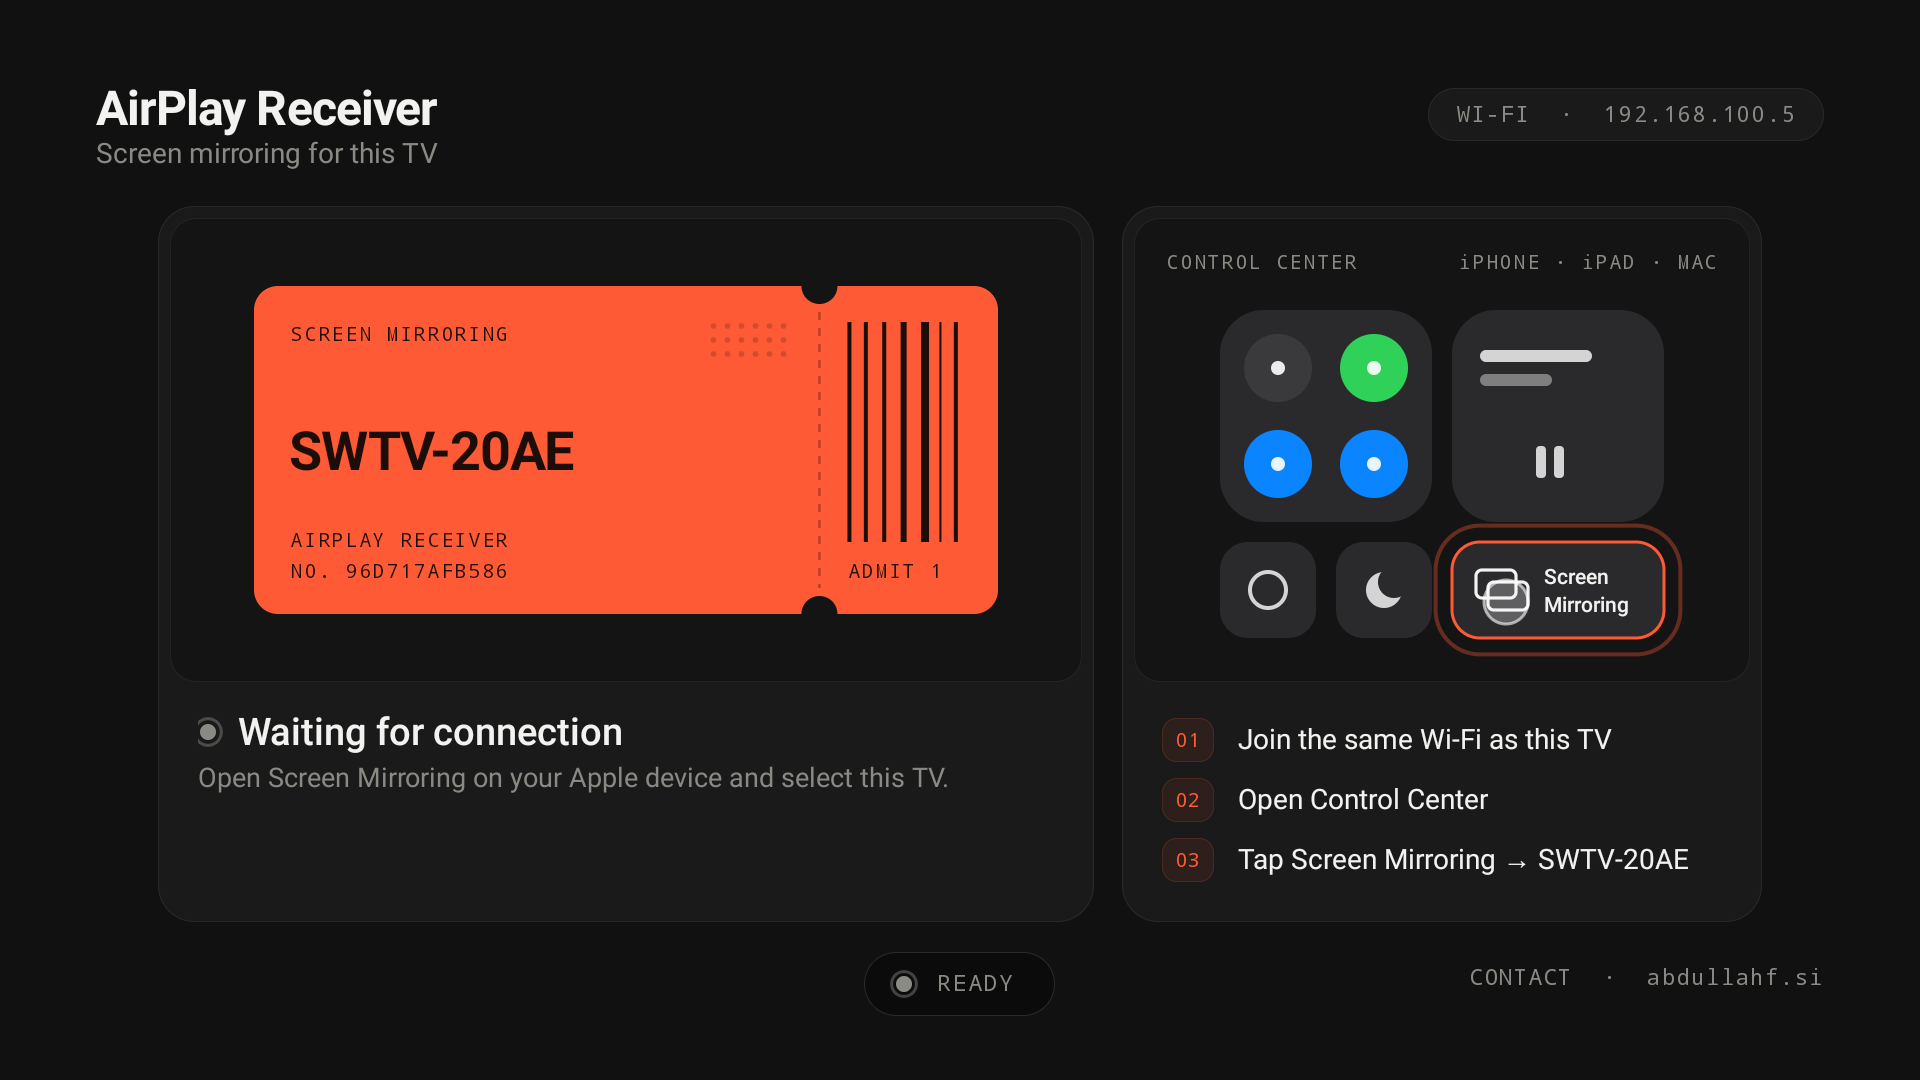
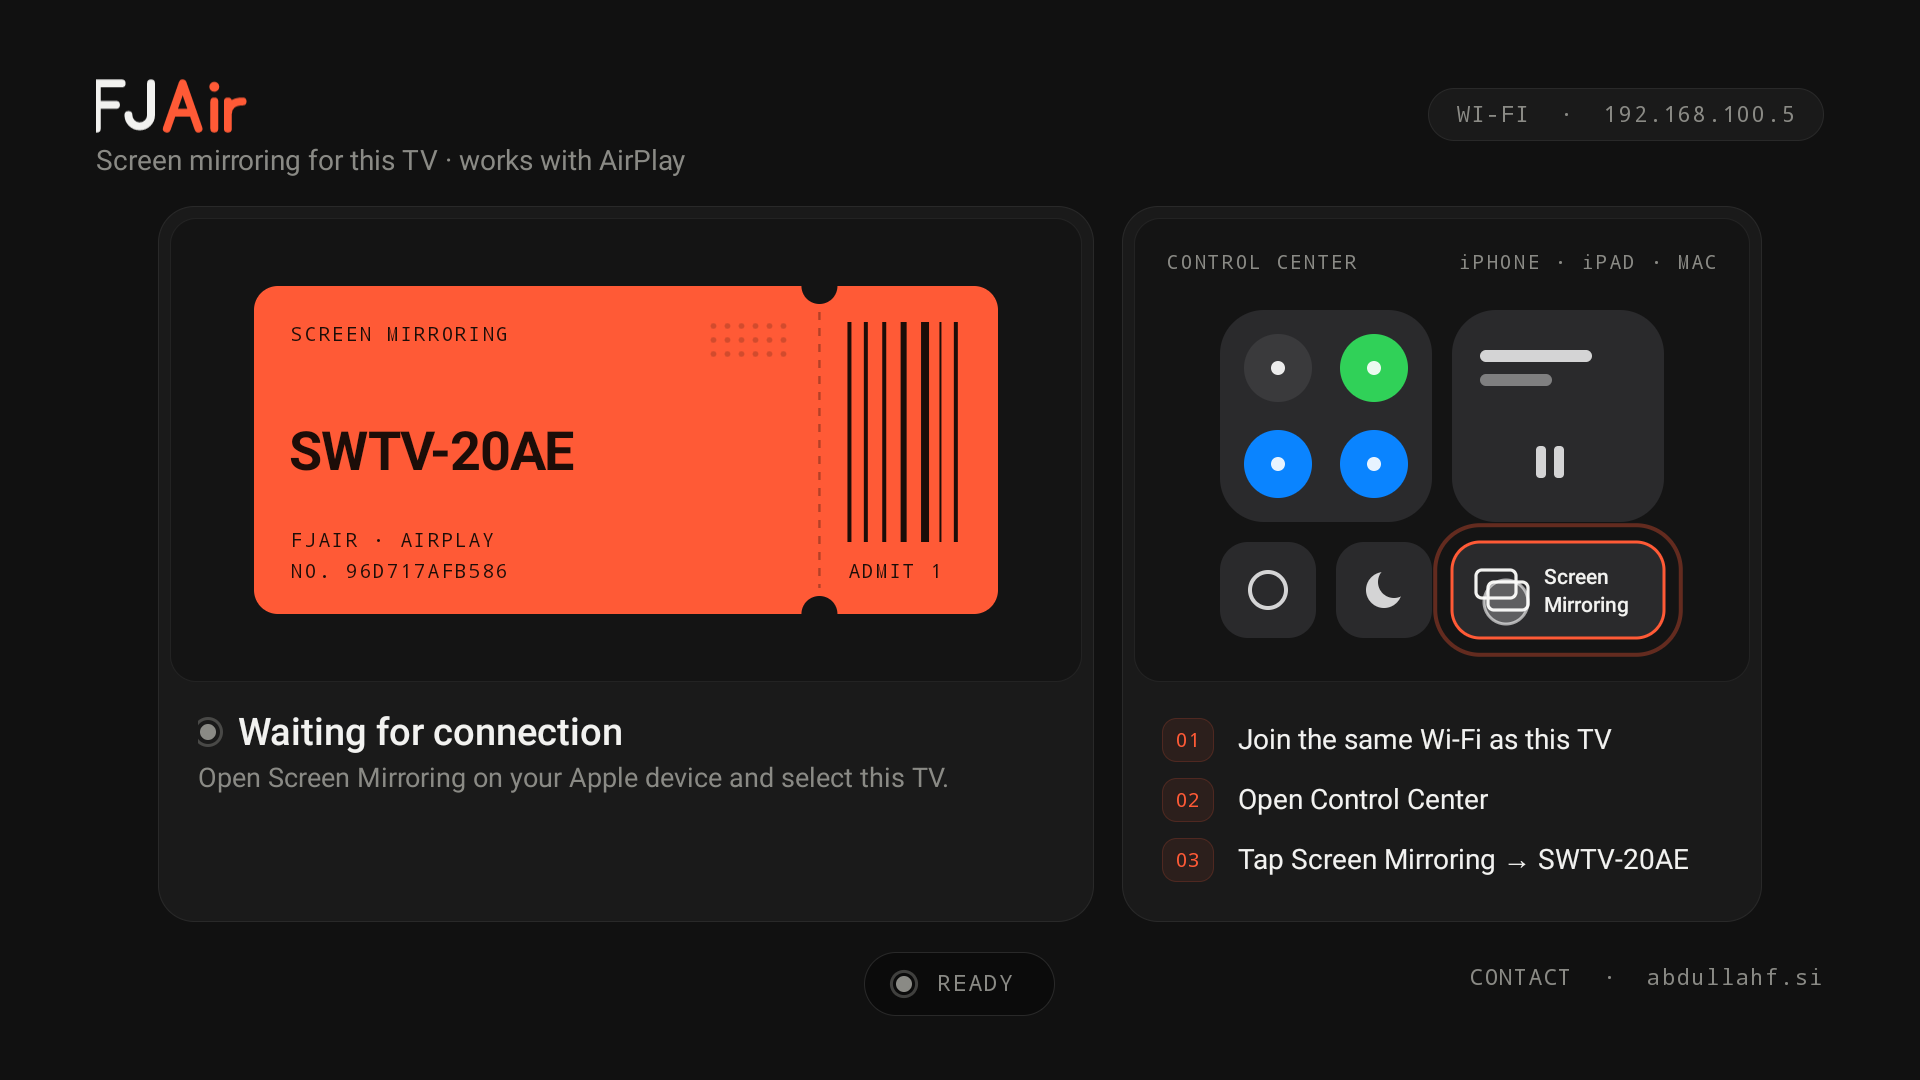
Brand the app as FJAir
Logo mark (the orange pairing ticket with an FJ monogram), a monoline
wordmark drawn as paths, and a colour palette. Adds an adaptive launcher
icon, a legacy icon, the 320x180 Android TV banner and the in-app
wordmark, all generated from docs/brand/*.svg by docs/brand/gen_res.py.
App label is now FJAir; README gets the banner and a Brand section.
Version 0.3.

Changed region(s): [[0.0312, 0.0611, 0.3438, 0.1528], [0.1562, 0.4889, 0.25, 0.5194]]

diff --git a/app/src/main/java/tv/airplay/HomeView.kt b/app/src/main/java/tv/airplay/HomeView.kt
@@ -15,6 +15,7 @@ import android.view.Gravity
 import android.view.View
 import android.view.animation.LinearInterpolator
 import android.widget.FrameLayout
+import android.widget.ImageView
 import android.widget.LinearLayout
 import android.widget.TextView
 import kotlin.math.PI
@@ -58,9 +59,13 @@ class HomeView(ctx: Context, tvName: String, deviceId: String) : FrameLayout(ctx
         // wordmark, top-left: name over a muted subtitle
         addView(LinearLayout(ctx).apply {
             orientation = LinearLayout.VERTICAL
-            addView(text(24f, INK, bold).apply { text = "AirPlay Receiver"; letterSpacing = -0.02f })
-            addView(text(14f, MUTED, regular).apply { text = "Screen mirroring for this TV" })
-        }, lp(-2, -2, Gravity.TOP or Gravity.START).margins(48, 40, 0, 0))
+            addView(ImageView(ctx).apply {
+                setImageResource(R.drawable.fjair_wordmark); contentDescription = "FJAir"
+                scaleType = ImageView.ScaleType.FIT_START; adjustViewBounds = true
+            }, LinearLayout.LayoutParams(-2, dp(34)).apply { marginStart = -dp(3) })
+            addView(text(14f, MUTED, regular).apply { text = "Screen mirroring for this TV · works with AirPlay" },
+                LinearLayout.LayoutParams(-2, -2).apply { topMargin = dp(2) })
+        }, lp(-2, -2, Gravity.TOP or Gravity.START).margins(48, 36, 0, 0))
 
         // network chip, top-right
         addView(ipText.apply {
@@ -316,7 +321,7 @@ private class TicketView(ctx: Context, private val name: String, private val ser
         c.drawText("SCREEN MIRRORING", pad, pad + label.textSize, label)
         val shown = TextUtils.ellipsize(name, big, stub - 2 * pad, TextUtils.TruncateAt.END).toString()
         c.drawText(shown, pad, h * 0.56f, big)
-        c.drawText("AIRPLAY RECEIVER", pad, h - pad - label.textSize - 6 * d, label)
+        c.drawText("FJAIR · AIRPLAY", pad, h - pad - label.textSize - 6 * d, label)
         c.drawText("NO. ${serial.replace(":", "")}", pad, h - pad, label)
 
         // stub: barcode + "ADMIT 1"

diff --git a/docs/brand/gen_res.py b/docs/brand/gen_res.py
@@ -1,0 +1,63 @@
+"""Generates FJAir Android vector resources from the same shapes as docs/brand/*.svg."""
+import os, sys
+
+RES = sys.argv[1]
+BG, ORANGE, INK, WHITE = "#FF111111", "#FFFF5A36", "#FF1C0D08", "#FFF2F2F0"
+A = 'xmlns:android="http://schemas.android.com/apk/res/android"'
+
+def rect(x, y, w, h): return f"M{x},{y} h{w} v{h} h{-w} Z"
+def circle(cx, cy, r): return f"M{cx - r},{cy} a{r},{r} 0 1,0 {2 * r},0 a{r},{r} 0 1,0 {-2 * r},0 Z"
+def fill(d, c, alpha=None):
+    a = f' android:fillAlpha="{alpha}"' if alpha else ""
+    return f'<path android:fillColor="{c}"{a} android:pathData="{d}"/>'
+def stroke(d, c, w):
+    return (f'<path android:strokeColor="{c}" android:strokeWidth="{w}" android:strokeLineCap="round" '
+            f'android:strokeLineJoin="round" android:pathData="{d}"/>')
+
+TICKET = "\n".join([
+    fill("M29,34 H79 A7,7 0 0 1 86,41 V67 A7,7 0 0 1 79,74 H29 A7,7 0 0 1 22,67 V41 A7,7 0 0 1 29,34 Z", ORANGE),
+    fill(circle(70, 34, 4.5) + " " + circle(70, 74, 4.5), BG),
+    fill(" ".join(rect(69.4, y, 1.2, 2.5) for y in (41, 46, 51, 56, 61, 66)), INK, "0.35"),
+    fill(" ".join(rect(x, 42, w, 24) for x, w in ((74, 1.8), (77.2, 1), (79.6, 1.8), (82.4, 0.9))), INK),
+    stroke("M32,44 V64 M32,44 H43 M32,53.5 H40.5 M60,44 V58.5 A5.5,5.5 0 0 1 49,58.5", INK, 4.2),
+])
+WORD = "\n".join([
+    stroke("M0,0 V40 M0,0 H22 M0,19 H17 M48,0 V28 A10,10 0 0 1 28,28", WHITE, 7),
+    stroke("M62,40 L76,0 L90,40 M66.9,26 H85.1 M104,16 V40 M116,16 V40 M116,27 C116,20 121,16 129,16", ORANGE, 7),
+    fill(circle(104, 3, 4.4), ORANGE),
+])
+
+def ticket_group(tx=0, ty=0, scale=1):
+    return (f'<group android:pivotX="54" android:pivotY="54" android:rotation="-8" android:scaleX="{scale}" '
+            f'android:scaleY="{scale}" android:translateX="{tx}" android:translateY="{ty}">\n{TICKET}\n</group>')
+
+def vector(w, h, vw, vh, body):
+    return (f'<?xml version="1.0" encoding="utf-8"?>\n<!-- generated from docs/brand/*.svg -->\n'
+            f'<vector {A} android:width="{w}dp" android:height="{h}dp" '
+            f'android:viewportWidth="{vw}" android:viewportHeight="{vh}">\n{body}\n</vector>\n')
+
+def write(rel, text):
+    p = os.path.join(RES, rel)
+    os.makedirs(os.path.dirname(p), exist_ok=True)
+    open(p, "w", encoding="utf-8").write(text)
+
+# adaptive icon (API 26+): flat background colour + ticket foreground
+write("drawable/ic_launcher_foreground.xml", vector(108, 108, 108, 108, ticket_group()))
+write("values/colors.xml", f'<?xml version="1.0" encoding="utf-8"?>\n<resources>\n    <color name="fjair_bg">{BG}</color>\n</resources>\n')
+write("mipmap-anydpi-v26/ic_launcher.xml",
+      f'<?xml version="1.0" encoding="utf-8"?>\n<adaptive-icon {A}>\n'
+      '    <background android:drawable="@color/fjair_bg"/>\n'
+      '    <foreground android:drawable="@drawable/ic_launcher_foreground"/>\n</adaptive-icon>\n')
+# legacy icon (API 21-25): rounded square + ticket
+write("mipmap/ic_launcher.xml", vector(48, 48, 108, 108,
+      fill("M30,6 H78 A24,24 0 0 1 102,30 V78 A24,24 0 0 1 78,102 H30 A24,24 0 0 1 6,78 V30 A24,24 0 0 1 30,6 Z", BG)
+      + "\n" + ticket_group()))
+# Android TV launcher banner, 320x180
+write("drawable/banner.xml", vector(320, 180, 320, 180,
+      fill(rect(0, 0, 320, 180), BG) + "\n" + ticket_group(42.5, 36, 1.3) + "\n"
+      + f'<group android:pivotX="0" android:pivotY="20" android:scaleX="0.78" android:scaleY="0.78" '
+        f'android:translateX="161.5" android:translateY="70">\n{WORD}\n</group>'))
+# wordmark for the home screen (viewport shifted so the round caps are not clipped)
+write("drawable/fjair_wordmark.xml", vector(146, 60, 146, 60,
+      f'<group android:translateX="6" android:translateY="10">\n{WORD}\n</group>'))
+print("ok")

diff --git a/README.md b/README.md
@@ -1,6 +1,8 @@
 <div align="center">
 
-# 📺 AirPlay Receiver for Android TV
+<img src="docs/brand/fjair-banner.svg" alt="FJAir" width="480">
+
+# FJAir — AirPlay screen mirroring for Android TV
 
 **Mirror your iPhone, iPad or Mac to an Android TV — no extra app on the Apple device, no cables.**
 
@@ -16,7 +18,7 @@
 
 ## ✨ What is it?
 
-A tiny, no-frills Android TV app that makes your TV show up in the **native Screen Mirroring menu** of iOS and macOS — just like an AirPlay-enabled LG or Samsung TV.
+**FJAir** is a tiny, no-frills Android TV app that makes your TV show up in the **native Screen Mirroring menu** of iOS and macOS — just like an AirPlay-enabled LG or Samsung TV.
 
 Open **Control Center → Screen Mirroring → pick your TV** and your screen appears on the TV, with sound.
 
@@ -31,7 +33,7 @@ Open **Control Center → Screen Mirroring → pick your TV** and your screen ap
 
 ## 📸 How it looks
 
-![AirPlay Receiver home screen on an Android TV](docs/screenshot.png)
+![FJAir home screen on an Android TV](docs/screenshot.png)
 
 The TV waits on a dark home screen with its name on a pairing ticket, a pulsing status light and an animated Control Center guide. When mirroring starts, your screen takes over the whole TV; the home screen returns when you disconnect.
 
@@ -46,7 +48,7 @@ The TV waits on a dark home screen with its name on a pairing ticket, a pulsing 
    ```
    https://github.com/Traxbay/airplay-receiver-tv/releases/latest/download/AirPlay-Receiver.apk
    ```
-4. Press **Go**, wait for the download, then **Install** → **Open**.
+4. Press **Go**, wait for the download, then **Install** → **Open**. The app appears on your TV as **FJAir**.
 
 ### Option B — with `adb` from a PC 🔌
 
@@ -61,7 +63,7 @@ The TV waits on a dark home screen with its name on a pairing ticket, a pulsing 
 ## 🎬 How to use it
 
 1. Put the iPhone / iPad / Mac on the **same Wi-Fi network** as the TV.
-2. Open **AirPlay Receiver** on the TV and leave it in the foreground.
+2. Open **FJAir** on the TV and leave it in the foreground.
 3. On the Apple device: **Control Center → Screen Mirroring** → choose your TV.
 4. Stop mirroring from the same menu — the TV returns to the waiting screen.
 
@@ -162,6 +164,26 @@ then run `./gradlew assembleRelease`.
 - [ ] Audio-video sync using the sender's timestamps
 - [ ] Foreground service so mirroring survives the app leaving the screen
 - [ ] iPad and macOS test reports
+
+## 🎨 Brand
+
+| | |
+|---|---|
+| <img src="docs/brand/fjair-icon.svg" width="96" alt="FJAir icon"> | **Mark** — the orange pairing ticket from the TV screen, with an "FJ" monogram. Used as the launcher icon. |
+| <img src="docs/brand/fjair-wordmark.svg" width="150" alt="FJAir wordmark"> | **Wordmark** — rounded monoline letters drawn as paths (no font licence needed): "FJ" in ink white, "Air" in signal orange. |
+
+| Colour | Hex | Use |
+|---|---|---|
+| ⬛ Night | `#111111` | backgrounds |
+| 🟧 Signal orange | `#FF5A36` | ticket, accents, "Air" |
+| ⬜ Ink white | `#F2F2F0` | text, "FJ" |
+| 🟫 Ticket ink | `#1C0D08` | text and marks on orange |
+
+Source files are in [`docs/brand/`](docs/brand). The Android icon, TV banner and wordmark drawables are generated from the same shapes by `docs/brand/gen_res.py`:
+
+```bash
+python docs/brand/gen_res.py app/src/main/res
+```
 
 ## 📬 Contact
 
